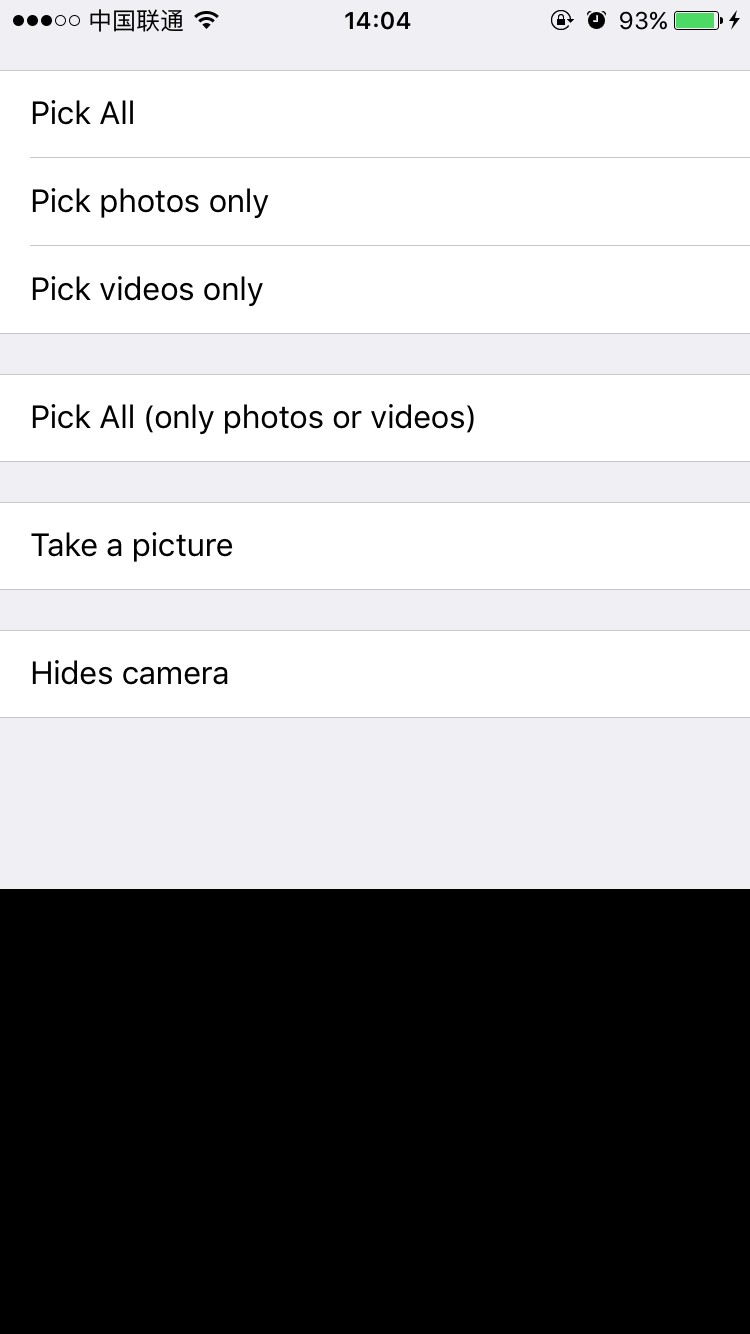
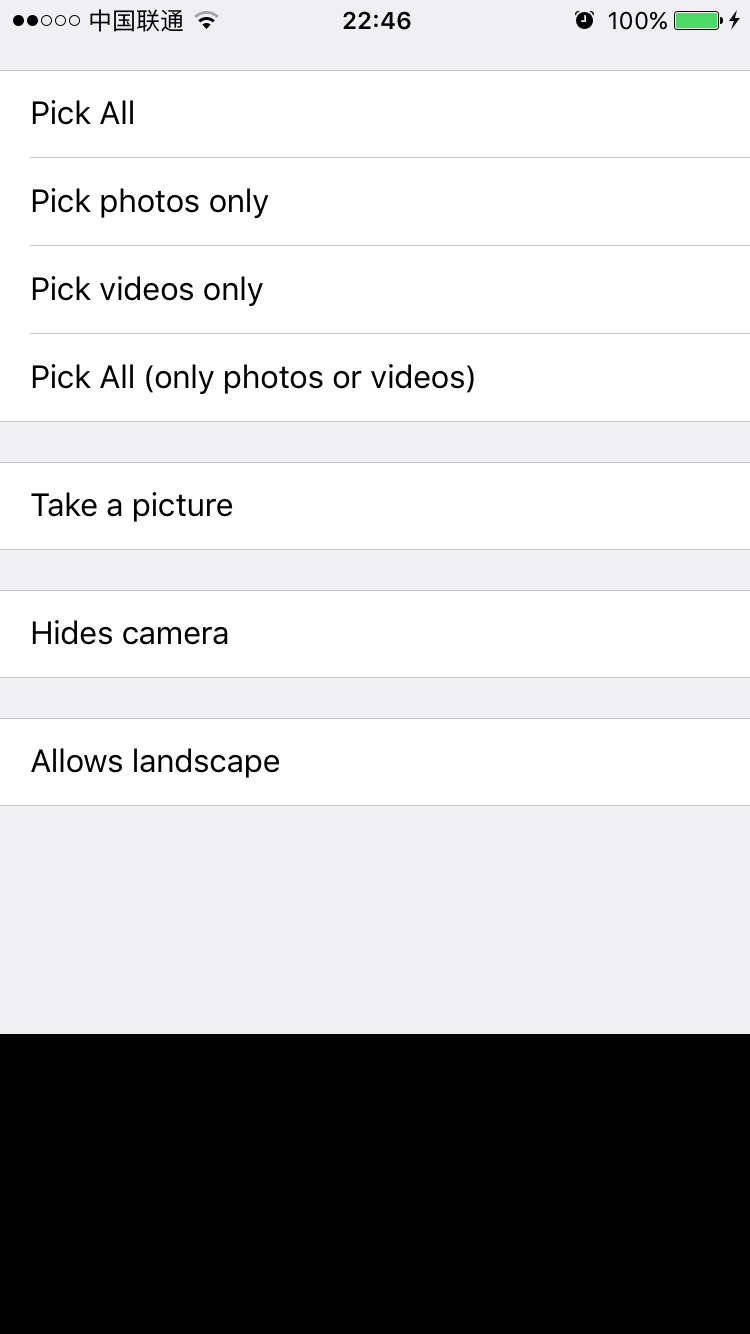
Updated Demo.

diff --git a/DKImagePickerControllerDemo/ViewController.swift b/DKImagePickerControllerDemo/ViewController.swift
@@ -25,17 +25,19 @@ class ViewController: UIViewController, UITableViewDataSource, UITableViewDelega
         // Dispose of any resources that can be recreated.
     }
     
-    func showImagePickerWithAssetType(assetType: DKImagePickerControllerAssetType,
-        allowMultipleType: Bool = true,
-        sourceType: DKImagePickerControllerSourceType = [.Camera, .Photo]) {
+    func showImagePickerWithAssetType(
+		assetType: DKImagePickerControllerAssetType,
+        allowMultipleType: Bool,
+        sourceType: DKImagePickerControllerSourceType = [.Camera, .Photo],
+		allowsLandscape: Bool) {
             
             let pickerController = DKImagePickerController()
             pickerController.assetType = assetType
-			pickerController.allowsLandscape = true
+			pickerController.allowsLandscape = allowsLandscape
+			pickerController.allowMultipleTypes = allowMultipleType
+			pickerController.sourceType = sourceType
 //			pickerController.showsCancelButton = true
 //			pickerController.showsEmptyAlbums = false
-            pickerController.allowMultipleTypes = allowMultipleType
-            pickerController.sourceType = sourceType
 //			pickerController.defaultAssetGroup = PHAssetCollectionSubtype.SmartAlbumFavorites
 			pickerController.defaultSelectedAssets = self.assets
             
@@ -83,12 +85,12 @@ class ViewController: UIViewController, UITableViewDataSource, UITableViewDelega
     
     struct Demo {
         static let titles = [
-            ["Pick All", "Pick photos only", "Pick videos only"],
-            ["Pick All (only photos or videos)"],
+            ["Pick All", "Pick photos only", "Pick videos only", "Pick All (only photos or videos)"],
             ["Take a picture"],
-            ["Hides camera"]
+            ["Hides camera"],
+			["Allows landscape"],
         ]
-        static let types: [DKImagePickerControllerAssetType] = [.AllAssets, .AllPhotos, .AllVideos]
+        static let types: [DKImagePickerControllerAssetType] = [.AllAssets, .AllPhotos, .AllVideos, .AllAssets]
     }
     
     func numberOfSectionsInTableView(tableView: UITableView) -> Int {
@@ -111,15 +113,19 @@ class ViewController: UIViewController, UITableViewDataSource, UITableViewDelega
         tableView.deselectRowAtIndexPath(indexPath, animated: true)
     
         let assetType = Demo.types[indexPath.row]
-        let allowMultipleType = indexPath.section == 0
-        let sourceType: DKImagePickerControllerSourceType = indexPath.section == 2 ? .Camera :
-            (indexPath.section == 3 ? .Photo : [.Camera, .Photo])
-        
-        showImagePickerWithAssetType(assetType,
-            allowMultipleType: allowMultipleType,
-            sourceType: sourceType)
-    }
-    
+        let allowMultipleType = !(indexPath.row == 0 && indexPath.section == 3)
+        let sourceType: DKImagePickerControllerSourceType = indexPath.section == 1 ? .Camera :
+			(indexPath.section == 2 ? .Photo : [.Camera, .Photo])
+		let allowsLandscape = indexPath.section == 3
+		
+		showImagePickerWithAssetType(
+			assetType,
+			allowMultipleType: allowMultipleType,
+			sourceType: sourceType,
+			allowsLandscape: allowsLandscape
+		)
+	}
+	
     // MARK: - UICollectionViewDataSource, UICollectionViewDelegate methods
     
     func collectionView(collectionView: UICollectionView, numberOfItemsInSection section: Int) -> Int {
